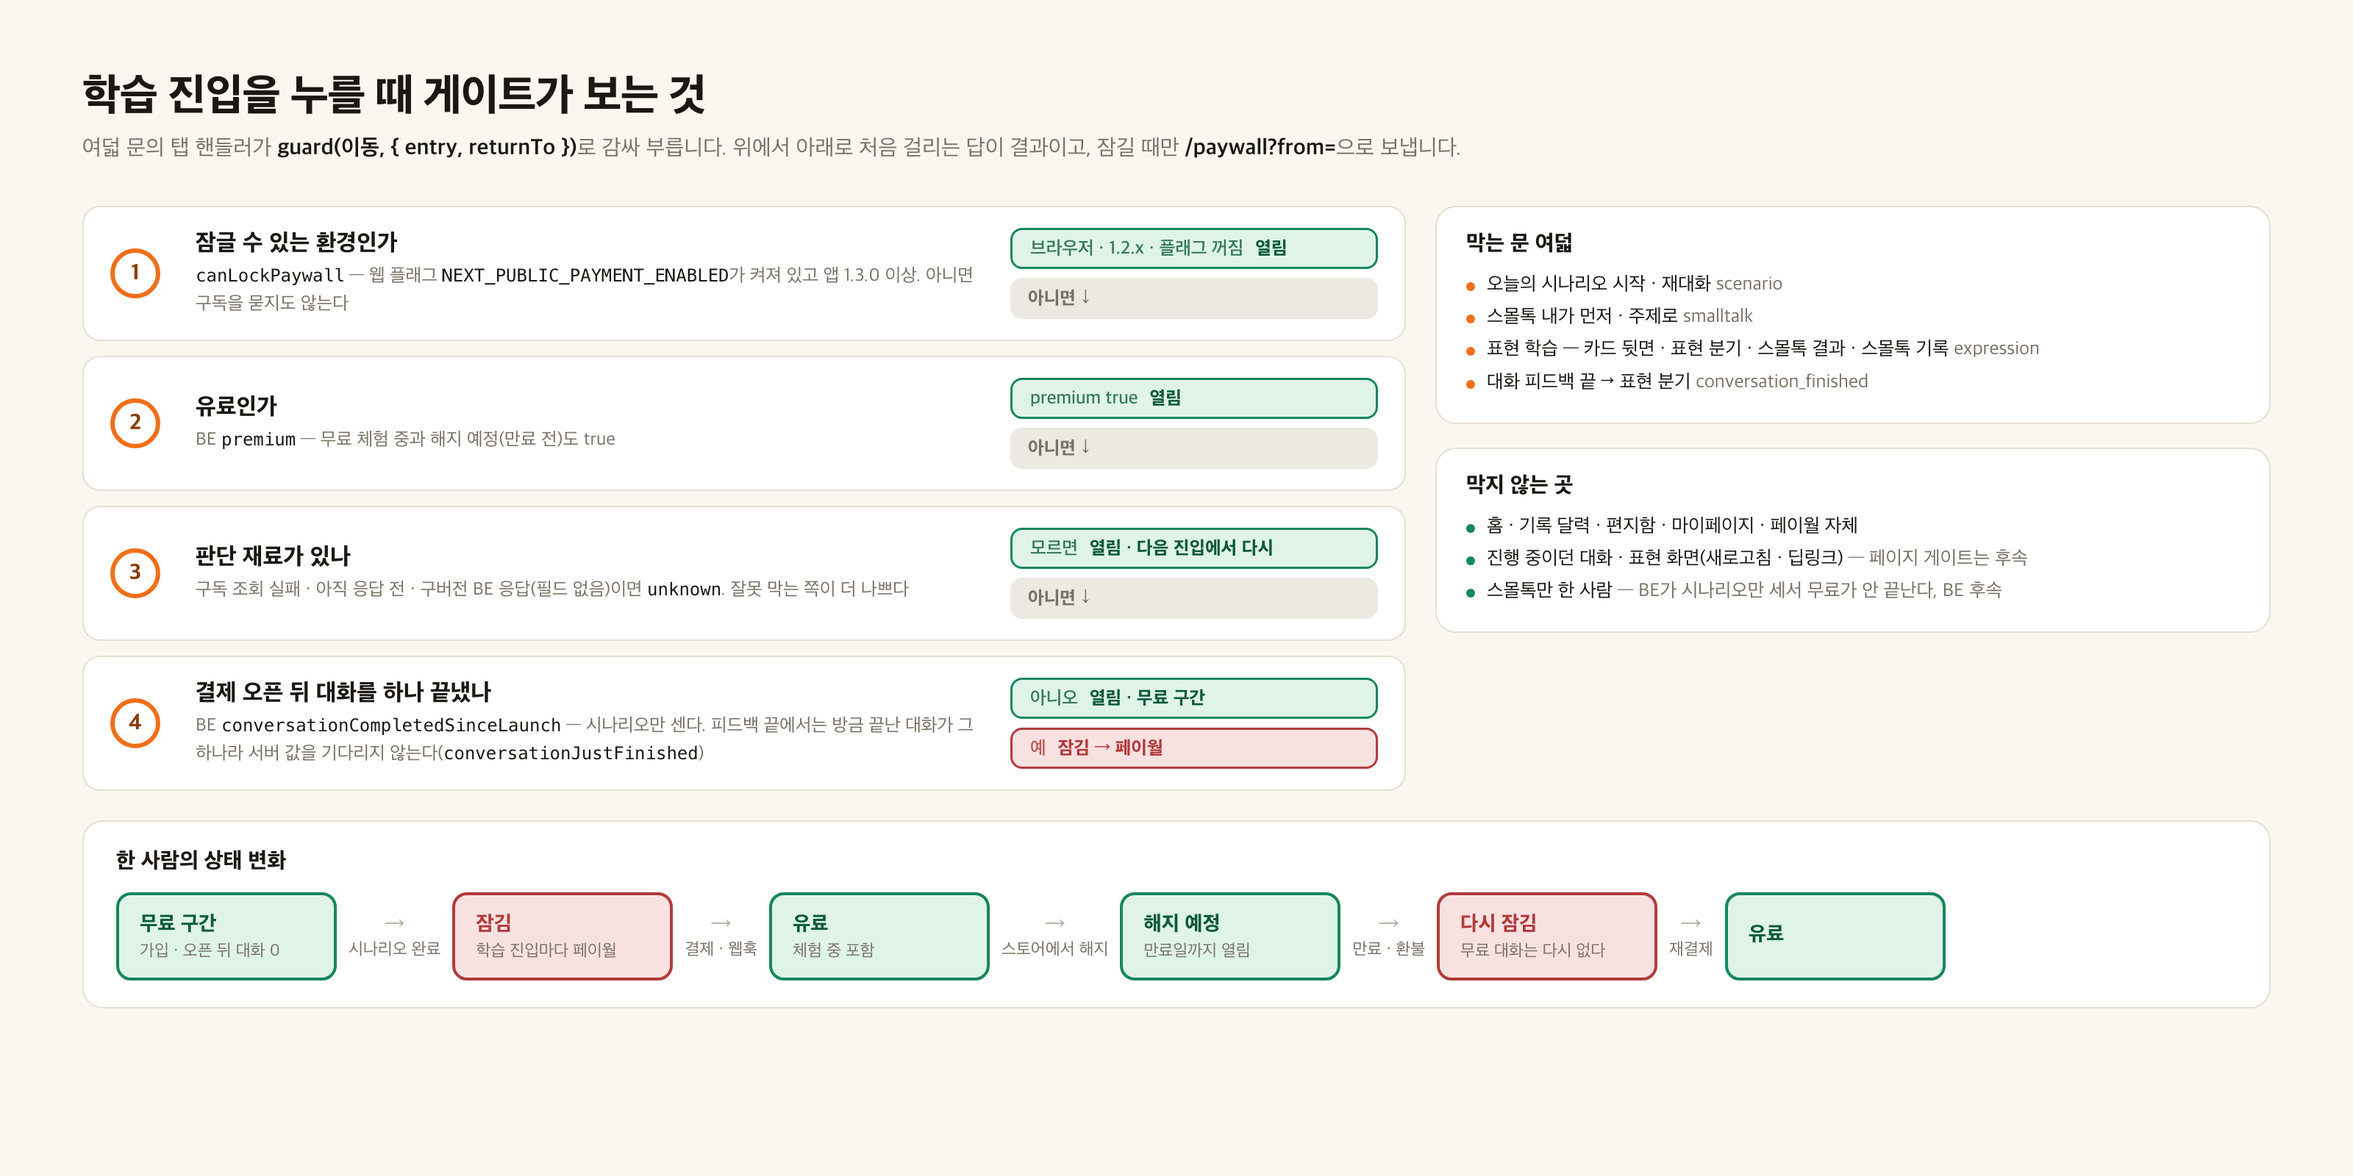
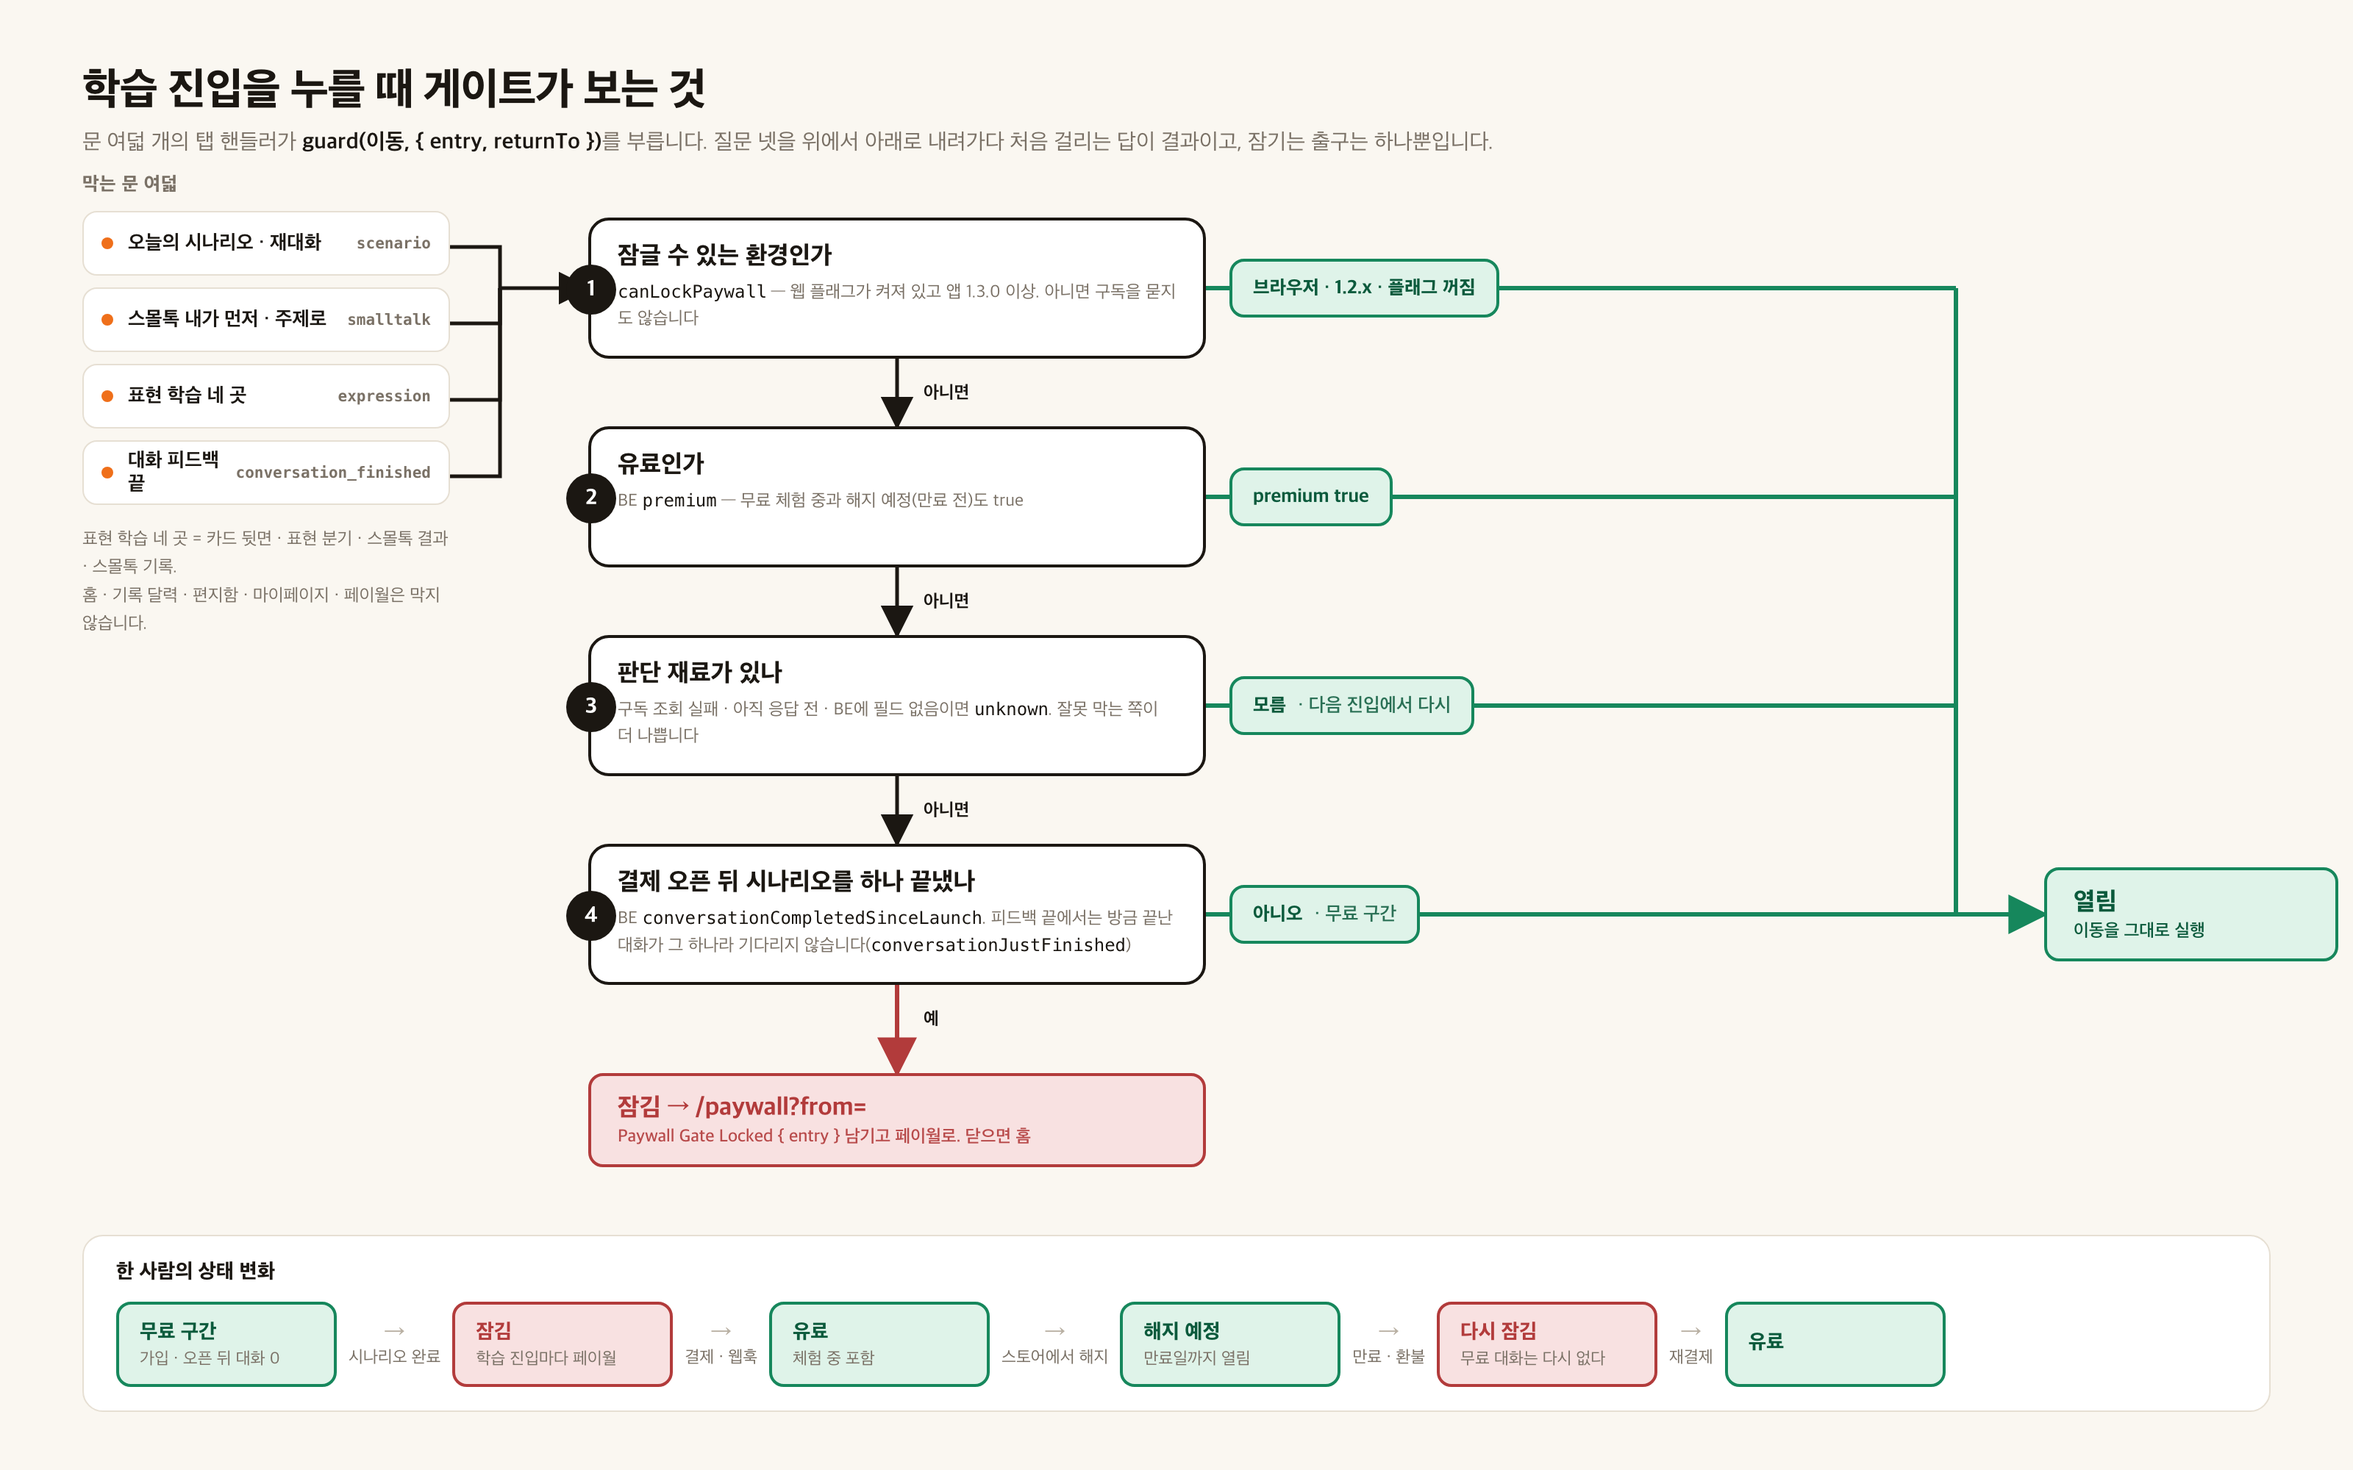
lan448: 게이트 그림 v2(플로차트)

diff --git a/lan448/paywall-gate.html b/lan448/paywall-gate.html
@@ -13,45 +13,44 @@
   * { box-sizing: border-box; }
   html, body { margin: 0; background: var(--bg); }
   body { font-family: -apple-system, "Apple SD Gothic Neo", "Pretendard", "Noto Sans KR", system-ui, sans-serif; color: var(--ink); -webkit-font-smoothing: antialiased; }
-  .canvas { width: 1600px; height: 800px; padding: 48px 56px; }
+  .canvas { position: relative; width: 1600px; height: 1000px; overflow: hidden; }
+  .abs { position: absolute; }
+  code { font-family: ui-monospace, "SF Mono", Menlo, monospace; font-size: 12px; }
   h1 { margin: 0; font-size: 30px; font-weight: 800; letter-spacing: -0.02em; }
   .sub { margin-top: 8px; font-size: 15px; color: var(--muted); }
   .sub b { color: var(--ink); font-weight: 700; }
-  code { font-family: ui-monospace, "SF Mono", Menlo, monospace; font-size: 12px; }
 
-  .grid { margin-top: 30px; display: grid; grid-template-columns: 900px 1fr; gap: 20px; }
+  /* 문 */
+  .doors { width: 250px; }
+  .doors h2 { margin: 0 0 10px; font-size: 13px; font-weight: 800; color: var(--muted); letter-spacing: .02em; }
+  .door { display: flex; align-items: center; gap: 10px; height: 44px; padding: 0 12px; margin-bottom: 8px; border-radius: 10px; background: #fff; border: 1px solid var(--rule); font-size: 13.5px; font-weight: 700; }
+  .door small { margin-left: auto; font-family: ui-monospace, "SF Mono", Menlo, monospace; font-size: 10.5px; font-weight: 600; color: var(--muted); }
+  .door i { width: 8px; height: 8px; border-radius: 50%; background: var(--accent); flex: none; }
 
-  /* 판정 사다리 */
-  .ladder { display: flex; flex-direction: column; gap: 0; }
-  .q { display: grid; grid-template-columns: 44px 1fr 250px; align-items: center; gap: 14px; padding: 14px 18px; background: #fff; border: 1px solid var(--rule); border-radius: 12px; }
-  .q + .q { margin-top: 10px; }
-  .q .n { width: 34px; height: 34px; border-radius: 50%; background: #fff; border: 3px solid var(--accent); color: var(--accent-ink); font-size: 15px; font-weight: 900; display: flex; align-items: center; justify-content: center; }
-  .q .ask { font-size: 16px; font-weight: 800; }
-  .q .how { margin-top: 3px; font-size: 12.5px; color: var(--muted); line-height: 1.5; }
+  /* 질문 */
+  .q { width: 420px; height: 96px; padding: 14px 18px 14px 18px; border-radius: 14px; background: #fff; border: 2px solid var(--ink); }
+  .q .n { position: absolute; left: -17px; top: 30px; width: 34px; height: 34px; border-radius: 50%; background: var(--ink); color: #fff; font-size: 15px; font-weight: 900; display: flex; align-items: center; justify-content: center; }
+  .q .ask { font-size: 17px; font-weight: 800; }
+  .q .how { margin-top: 5px; font-size: 12px; line-height: 1.5; color: var(--muted); }
   .q .how code { color: var(--ink); }
-  .out { display: flex; flex-direction: column; gap: 6px; }
-  .pill { display: inline-flex; align-items: center; gap: 8px; height: 28px; padding: 0 12px; border-radius: 8px; font-size: 12.5px; font-weight: 800; white-space: nowrap; }
-  .pill.open { background: var(--truth-soft); color: var(--truth-ink); border: 1.5px solid var(--truth); }
-  .pill.lock { background: var(--lock-soft); color: var(--lock); border: 1.5px solid var(--lock); }
-  .pill.next { background: var(--gray-soft); color: var(--muted); }
-  .pill .k { font-weight: 600; opacity: .8; }
-  .down { text-align: center; color: var(--faint); font-size: 16px; line-height: 1; margin: 2px 0; }
 
-  /* 오른쪽 */
-  .side { display: flex; flex-direction: column; gap: 16px; }
-  .panel { border-radius: 14px; padding: 16px 20px; background: #fff; border: 1px solid var(--rule); }
-  .panel h2 { margin: 0 0 8px; font-size: 15px; font-weight: 800; }
-  .panel ul { margin: 0; padding: 0; list-style: none; font-size: 13px; line-height: 1.7; }
-  .panel li { padding-left: 14px; position: relative; }
-  .panel li::before { content: ""; position: absolute; left: 0; top: 9px; width: 6px; height: 6px; border-radius: 50%; background: var(--accent); }
-  .panel.open li::before { background: var(--truth); }
-  .panel .m { color: var(--muted); }
+  /* 출구 */
+  .exit { height: 40px; padding: 0 14px; border-radius: 10px; display: flex; align-items: center; gap: 8px; font-size: 13px; font-weight: 800; white-space: nowrap; }
+  .exit.open { background: var(--truth-soft); color: var(--truth-ink); border: 2px solid var(--truth); }
+  .exit.open span { font-weight: 600; opacity: .85; }
+  .exit.lock { background: var(--lock-soft); color: var(--lock); border: 2px solid var(--lock); height: 64px; font-size: 17px; flex-direction: column; align-items: flex-start; justify-content: center; gap: 2px; padding: 0 18px; }
+  .exit.lock small { font-size: 12px; font-weight: 600; opacity: .9; }
+  .rail { width: 200px; }
+  .rail .exit.open.big { height: 64px; font-size: 17px; flex-direction: column; align-items: flex-start; justify-content: center; gap: 2px; padding: 0 18px; }
+  .rail .exit.open.big small { font-size: 12px; font-weight: 600; }
+  .lbl { font-size: 12px; font-weight: 700; white-space: nowrap; color: var(--muted); background: var(--bg); padding: 0 6px; }
+  .lbl.no { color: var(--ink); }
 
-  /* 상태 타임라인 */
-  .timeline { margin-top: 20px; padding: 18px 22px; background: #fff; border: 1px solid var(--rule); border-radius: 14px; }
-  .timeline h2 { margin: 0 0 12px; font-size: 15px; font-weight: 800; }
+  /* 타임라인 */
+  .timeline { width: 1488px; padding: 16px 22px; background: #fff; border: 1px solid var(--rule); border-radius: 14px; }
+  .timeline h2 { margin: 0 0 12px; font-size: 14px; font-weight: 800; }
   .tl { display: flex; align-items: center; gap: 8px; }
-  .st { min-width: 150px; height: 60px; padding: 0 14px; border-radius: 10px; display: flex; flex-direction: column; justify-content: center; background: var(--gray-soft); }
+  .st { min-width: 150px; height: 58px; padding: 0 14px; border-radius: 10px; display: flex; flex-direction: column; justify-content: center; background: var(--gray-soft); }
   .st .t { font-size: 14px; font-weight: 800; white-space: nowrap; }
   .st .d { margin-top: 3px; font-size: 11.5px; color: var(--muted); white-space: nowrap; }
   .st.open { background: var(--truth-soft); border: 2px solid var(--truth); } .st.open .t { color: var(--truth-ink); }
@@ -62,55 +61,84 @@
 </head>
 <body>
 <div class="canvas">
-  <h1>학습 진입을 누를 때 게이트가 보는 것</h1>
-  <div class="sub">여덟 문의 탭 핸들러가 <b>guard(이동, { entry, returnTo })</b>로 감싸 부릅니다. 위에서 아래로 처음 걸리는 답이 결과이고, 잠길 때만 <b>/paywall?from=</b>으로 보냅니다.</div>
-
-  <div class="grid">
-    <div class="ladder">
-      <div class="q">
-        <div class="n">1</div>
-        <div><div class="ask">잠글 수 있는 환경인가</div><div class="how"><code>canLockPaywall</code> — 웹 플래그 <code>NEXT_PUBLIC_PAYMENT_ENABLED</code>가 켜져 있고 앱 1.3.0 이상. 아니면 구독을 묻지도 않는다</div></div>
-        <div class="out"><span class="pill open"><span class="k">브라우저 · 1.2.x · 플래그 꺼짐</span> 열림</span><span class="pill next">아니면 ↓</span></div>
-      </div>
-      <div class="q">
-        <div class="n">2</div>
-        <div><div class="ask">유료인가</div><div class="how">BE <code>premium</code> — 무료 체험 중과 해지 예정(만료 전)도 true</div></div>
-        <div class="out"><span class="pill open"><span class="k">premium true</span> 열림</span><span class="pill next">아니면 ↓</span></div>
-      </div>
-      <div class="q">
-        <div class="n">3</div>
-        <div><div class="ask">판단 재료가 있나</div><div class="how">구독 조회 실패 · 아직 응답 전 · 구버전 BE 응답(필드 없음)이면 <code>unknown</code>. 잘못 막는 쪽이 더 나쁘다</div></div>
-        <div class="out"><span class="pill open"><span class="k">모르면</span> 열림 · 다음 진입에서 다시</span><span class="pill next">아니면 ↓</span></div>
-      </div>
-      <div class="q">
-        <div class="n">4</div>
-        <div><div class="ask">결제 오픈 뒤 대화를 하나 끝냈나</div><div class="how">BE <code>conversationCompletedSinceLaunch</code> — 시나리오만 센다. 피드백 끝에서는 방금 끝난 대화가 그 하나라 서버 값을 기다리지 않는다(<code>conversationJustFinished</code>)</div></div>
-        <div class="out"><span class="pill open"><span class="k">아니오</span> 열림 · 무료 구간</span><span class="pill lock"><span class="k">예</span> 잠김 → 페이월</span></div>
-      </div>
-    </div>
-
-    <div class="side">
-      <div class="panel">
-        <h2>막는 문 여덟</h2>
-        <ul>
-          <li>오늘의 시나리오 시작 · 재대화 <span class="m">scenario</span></li>
-          <li>스몰톡 내가 먼저 · 주제로 <span class="m">smalltalk</span></li>
-          <li>표현 학습 — 카드 뒷면 · 표현 분기 · 스몰톡 결과 · 스몰톡 기록 <span class="m">expression</span></li>
-          <li>대화 피드백 끝 → 표현 분기 <span class="m">conversation_finished</span></li>
-        </ul>
-      </div>
-      <div class="panel open">
-        <h2>막지 않는 곳</h2>
-        <ul>
-          <li>홈 · 기록 달력 · 편지함 · 마이페이지 · 페이월 자체</li>
-          <li>진행 중이던 대화 · 표현 화면(새로고침 · 딥링크) <span class="m">— 페이지 게이트는 후속</span></li>
-          <li>스몰톡만 한 사람 <span class="m">— BE가 시나리오만 세서 무료가 안 끝난다, BE 후속</span></li>
-        </ul>
-      </div>
-    </div>
+  <div class="abs" style="left:56px; top:44px;">
+    <h1>학습 진입을 누를 때 게이트가 보는 것</h1>
+    <div class="sub">문 여덟 개의 탭 핸들러가 <b>guard(이동, { entry, returnTo })</b>를 부릅니다. 질문 넷을 위에서 아래로 내려가다 처음 걸리는 답이 결과이고, 잠기는 출구는 하나뿐입니다.</div>
   </div>
 
-  <div class="timeline">
+  <svg class="abs" style="left:0; top:0;" width="1600" height="1000" fill="none">
+    <defs>
+      <marker id="a-ink" viewBox="0 0 10 10" refX="9" refY="5" markerWidth="9" markerHeight="9" orient="auto-start-reverse"><path d="M0,0 L10,5 L0,10 z" fill="#1b1712"/></marker>
+      <marker id="a-ok" viewBox="0 0 10 10" refX="9" refY="5" markerWidth="9" markerHeight="9" orient="auto-start-reverse"><path d="M0,0 L10,5 L0,10 z" fill="#16875c"/></marker>
+      <marker id="a-lock" viewBox="0 0 10 10" refX="9" refY="5" markerWidth="9" markerHeight="9" orient="auto-start-reverse"><path d="M0,0 L10,5 L0,10 z" fill="#b23b3b"/></marker>
+    </defs>
+    <!-- 문 → 질문 1 -->
+    <path d="M306,168 H340 V196 H400" stroke="#1b1712" stroke-width="2.5" marker-end="url(#a-ink)"/>
+    <path d="M306,220 H340 V196" stroke="#1b1712" stroke-width="2.5"/>
+    <path d="M306,272 H340 V196" stroke="#1b1712" stroke-width="2.5"/>
+    <path d="M306,324 H340 V196" stroke="#1b1712" stroke-width="2.5"/>
+    <!-- 질문 사이 -->
+    <path d="M610,244 V290" stroke="#1b1712" stroke-width="2.5" marker-end="url(#a-ink)"/>
+    <path d="M610,386 V432" stroke="#1b1712" stroke-width="2.5" marker-end="url(#a-ink)"/>
+    <path d="M610,528 V574" stroke="#1b1712" stroke-width="2.5" marker-end="url(#a-ink)"/>
+    <!-- 열림 출구들 → 오른쪽 레일 -->
+    <path d="M820,196 H1330" stroke="#16875c" stroke-width="3"/>
+    <path d="M820,338 H1330" stroke="#16875c" stroke-width="3"/>
+    <path d="M820,480 H1330" stroke="#16875c" stroke-width="3"/>
+    <path d="M820,622 H1330" stroke="#16875c" stroke-width="3"/>
+    <path d="M1330,196 V622 H1390" stroke="#16875c" stroke-width="3" marker-end="url(#a-ok)"/>
+    <!-- 잠김 -->
+    <path d="M610,670 V730" stroke="#b23b3b" stroke-width="3" marker-end="url(#a-lock)"/>
+  </svg>
+
+  <!-- 문 여덟 -->
+  <div class="abs doors" style="left:56px; top:118px;">
+    <h2>막는 문 여덟</h2>
+    <div class="door"><i></i>오늘의 시나리오 · 재대화<small>scenario</small></div>
+    <div class="door"><i></i>스몰톡 내가 먼저 · 주제로<small>smalltalk</small></div>
+    <div class="door"><i></i>표현 학습 네 곳<small>expression</small></div>
+    <div class="door"><i></i>대화 피드백 끝<small>conversation_finished</small></div>
+    <div style="margin-top:14px; font-size:12px; line-height:1.6; color:var(--muted);">표현 학습 네 곳 = 카드 뒷면 · 표현 분기 · 스몰톡 결과 · 스몰톡 기록.<br/>홈 · 기록 달력 · 편지함 · 마이페이지 · 페이월은 막지 않습니다.</div>
+  </div>
+
+  <!-- 질문 넷 -->
+  <div class="abs q" style="left:400px; top:148px;"><div class="n">1</div>
+    <div class="ask">잠글 수 있는 환경인가</div>
+    <div class="how"><code>canLockPaywall</code> — 웹 플래그가 켜져 있고 앱 1.3.0 이상. 아니면 구독을 묻지도 않습니다</div>
+  </div>
+  <div class="abs q" style="left:400px; top:290px;"><div class="n">2</div>
+    <div class="ask">유료인가</div>
+    <div class="how">BE <code>premium</code> — 무료 체험 중과 해지 예정(만료 전)도 true</div>
+  </div>
+  <div class="abs q" style="left:400px; top:432px;"><div class="n">3</div>
+    <div class="ask">판단 재료가 있나</div>
+    <div class="how">구독 조회 실패 · 아직 응답 전 · BE에 필드 없음이면 <code>unknown</code>. 잘못 막는 쪽이 더 나쁩니다</div>
+  </div>
+  <div class="abs q" style="left:400px; top:574px;"><div class="n">4</div>
+    <div class="ask">결제 오픈 뒤 시나리오를 하나 끝냈나</div>
+    <div class="how">BE <code>conversationCompletedSinceLaunch</code>. 피드백 끝에서는 방금 끝난 대화가 그 하나라 기다리지 않습니다(<code>conversationJustFinished</code>)</div>
+  </div>
+
+  <!-- 출구 라벨 -->
+  <div class="abs exit open" style="left:836px; top:176px;">브라우저 · 1.2.x · 플래그 꺼짐</div>
+  <div class="abs exit open" style="left:836px; top:318px;">premium true</div>
+  <div class="abs exit open" style="left:836px; top:460px;">모름 <span>· 다음 진입에서 다시</span></div>
+  <div class="abs exit open" style="left:836px; top:602px;">아니오 <span>· 무료 구간</span></div>
+  <div class="abs lbl no" style="left:622px; top:260px;">아니면</div>
+  <div class="abs lbl no" style="left:622px; top:402px;">아니면</div>
+  <div class="abs lbl no" style="left:622px; top:544px;">아니면</div>
+  <div class="abs lbl no" style="left:622px; top:686px;">예</div>
+
+  <!-- 최종 출구 -->
+  <div class="abs rail" style="left:1390px; top:590px;">
+    <div class="exit open big">열림<small>이동을 그대로 실행</small></div>
+  </div>
+  <div class="abs" style="left:400px; top:730px; width:420px;">
+    <div class="exit lock">잠김 → /paywall?from=<small>Paywall Gate Locked { entry } 남기고 페이월로. 닫으면 홈</small></div>
+  </div>
+
+  <!-- 타임라인 -->
+  <div class="abs timeline" style="left:56px; top:840px;">
     <h2>한 사람의 상태 변화</h2>
     <div class="tl">
       <div class="st open"><div class="t">무료 구간</div><div class="d">가입 · 오픈 뒤 대화 0</div></div>
